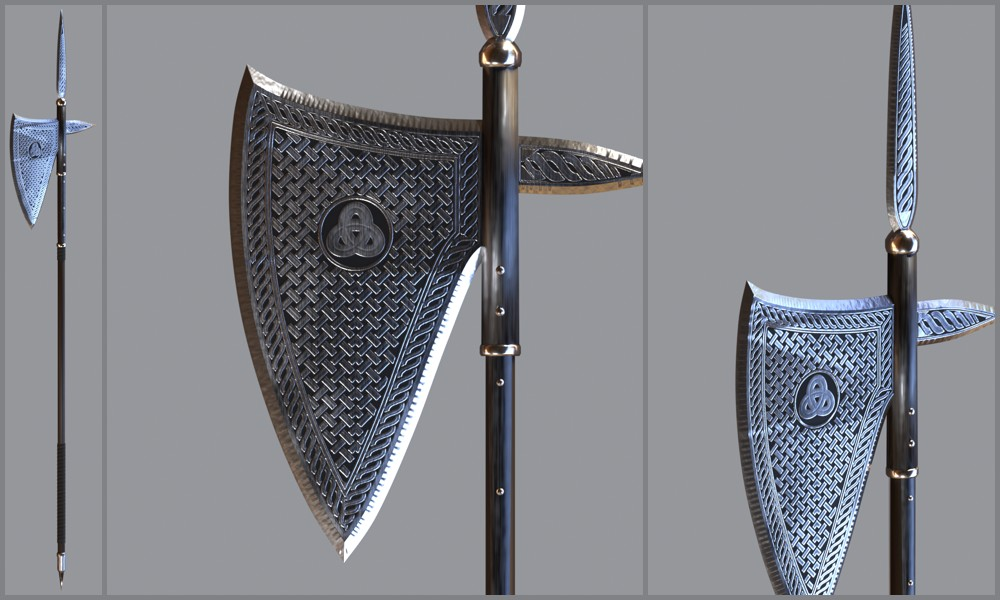
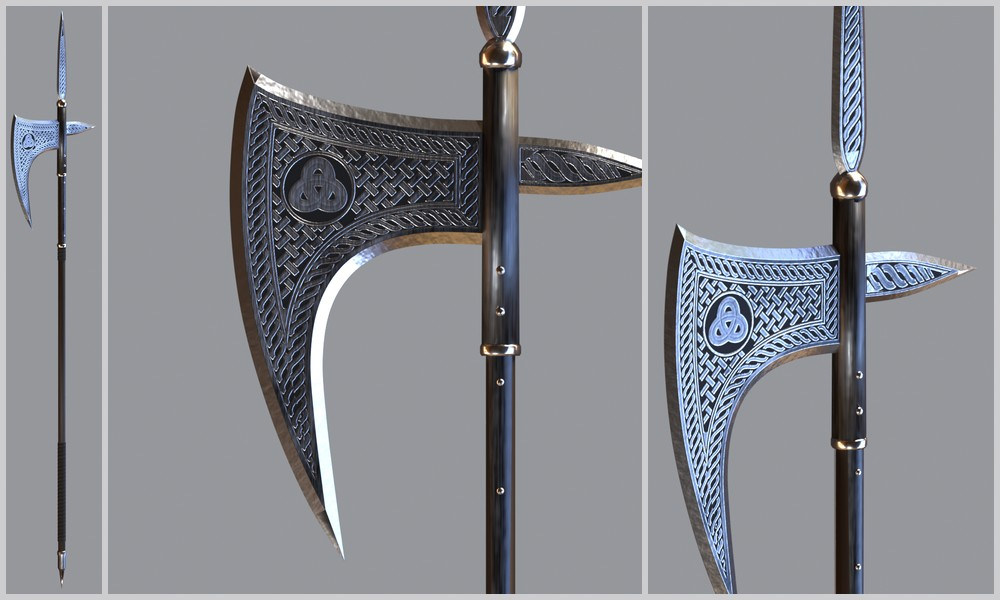
1.4.0: the Carved Nordic Halberd's crescent lower edge (design A3, the owner's mark on the A2 head-front render)
- items.py: halberd from set2 work_halberdA3 (halberd_build.py A3): the blade's lower edge is one smooth concave
  curve from the beard's point to the socket in place of A2's straight diagonal; the engraving re-laid on the new
  face (braid border along the new outline, weave refilled, medallion re-centred in the field). Top edge, cutting
  edge, socket root, spikes, haft and the 163.0 length unchanged. Design gates pass (layout with the medallion
  measure, surface profile, UV stretch, UV overlap 0, winding 0).
- verify.py RESULT 72 NIFs PASS; halberd.nif / 1stpersonhalberd.nif keep vanilla's tree (missing 0, added 0
  beyond shaft and wrap), Prn WeaponBack, 40-point hull rebuilt. Plugins unchanged.
- fomod/images/halberd.jpg from the A3 renders. README and CHANGELOG.

diff --git a/tools/items.py b/tools/items.py
@@ -195,9 +195,12 @@ ITEMS = {
     # length (set2\halberd_build.py A2; work_halberd_NOTES.md). A NEW item on vanilla's two-handed axe NIFs, built as the
     # spear: undecimated, its own first-person file, the grip wrap and the binding on the greatsword's wrap maps as in the
     # approved renders. Blood: the blade, the back spike and the top blade (blood_region).
-    "halberd": dict(version="A2", new_item=True, sources=[W(r"work_halberdA2\tn_halberdA2.nif")], orient=True,
-                    shapes={"metal": {"name": "TNHalberd", "tex": W(r"work_halberdA2\tex\tn_halberdA2"), "target": None, "design": W(r"work_halberdA2")},
-                            "shaft": {"name": "TNHalberdShaft_0", "tex": W(r"work_halberdA2\tex\tn_halberdA2_soft"), "target": None},
+    # A3 (2026-11-15, the owner's mark on the A2 head-front render): the blade's lower edge is one smooth concave crescent
+    # from the beard's point to the socket instead of A2's straight diagonal; the engraving re-laid on the new face and the
+    # medallion re-centred in it; everything else as A2 (set2\halberd-A3-crescent, halberd_build.py A3).
+    "halberd": dict(version="A3", new_item=True, sources=[W(r"work_halberdA3\tn_halberdA3.nif")], orient=True,
+                    shapes={"metal": {"name": "TNHalberd", "tex": W(r"work_halberdA3\tex\tn_halberdA3"), "target": None, "design": W(r"work_halberdA3")},
+                            "shaft": {"name": "TNHalberdShaft_0", "tex": W(r"work_halberdA3\tex\tn_halberdA3_soft"), "target": None},
                             "wrap": {"name": "TNHalberdWrap", "tex": W(r"work_gs5_sf\tex\tn_greatsword_wrap"), "target": None}},
                     blood_region=[[-18.8, 73.6, -2.0], [13.3, 135.0, 2.0]],
                     third="nordicbattleaxe.nif", first="1stpersonnordicbattleaxe.nif", stem="halberd"),

diff --git a/CHANGELOG.md b/CHANGELOG.md
@@ -15,6 +15,7 @@ Written as changes happen, not reconstructed afterwards (rule 61). Each version 
 - Additional Weapons: the Carved Nordic Crossbow, a new crossbow in the Nordic carved style. Its stock carries a flat steel deck with the bolt groove inset to the front face, one roller nut holding the string, an engraved steel-plated hand-hold block with the triquetra on its lock plates, and the prod mounted on the front face in a steel bridle with a stirrup. The arms stand on edge with a carved braid on their faces and are bent back like the vanilla crossbow's. A steel cocking lever swings up during the reload, as on the vanilla crossbow. It draws and reloads with the vanilla crossbow animations, and is forged and tempered at Nordic or Ebony quality.
 
 ### Changed
+- Additional Weapons: the Carved Nordic Halberd's blade has a bearded crescent - its lower edge sweeps in one smooth concave curve from the beard's point up to the haft, where it used to run straight across. The braid border, weave and triquetra medallion are carved afresh to fill the new blade shape. The cutting edge, the spikes, the haft and the length are unchanged, at Nordic and Ebony quality.
 - The Ebony quality items that are added as their own items carry Ebony in their names: Carved Nordic Ebony Sword, War Axe, Battleaxe, Greatsword, Warhammer, Dagger, Mace, Bow, Shield and Arrow in Standalone - Ebony quality, and Carved Nordic Ebony Spear, Halberd, Crossbow and Bolt in the Ebony quality choice of Additional Weapons. The Nordic quality names and the Replacer files' names are unchanged, and so are every item's FormID and EditorID, so existing saves keep their items.
 - Additional Weapons, Ebony quality: the two steel collars at the ends of the Carved Nordic Ebony Crossbow's grip wrap are gold, like the rings on the grip of every other Ebony quality weapon. Nothing else on the crossbow changed, and the Nordic quality crossbow is unchanged.
 - Additional Weapons: the Carved Nordic Crossbow's stock is black wood to match the set's black wraps and leather (it showed brown in game); the grain still shows in the light. Its steel, carving and wrap are unchanged, and the Ebony crossbow has the same black stock.

diff --git a/README.md b/README.md
@@ -76,7 +76,7 @@ and renames the enchanted copies (Thaumaturgy, for one) keeps its own names.
 Optional file, Additional Weapons: carved weapons the game does not have, in their own light plugin
 (`TrulyNordicCarvedWeapons - Additional Weapons.esp`), installed beside any main file, at Nordic or Ebony quality.
 - **Carved Nordic Spear:** a winged spear with the triquetra on its head.
-- **Carved Nordic Halberd:** a bearded blade with a triquetra, a carved back spike and a top blade, 163 units long.
+- **Carved Nordic Halberd:** a bearded blade with a crescent hollow under it and a triquetra, a carved back spike and a top blade, 163 units long.
 
 Both are forged and tempered like the battleaxe and use the battleaxe moveset unless an installer step adds the keywords
 that animation packs look for, through Keyword Item Distributor: spear packs, or Animated Armoury's halberd (which also
